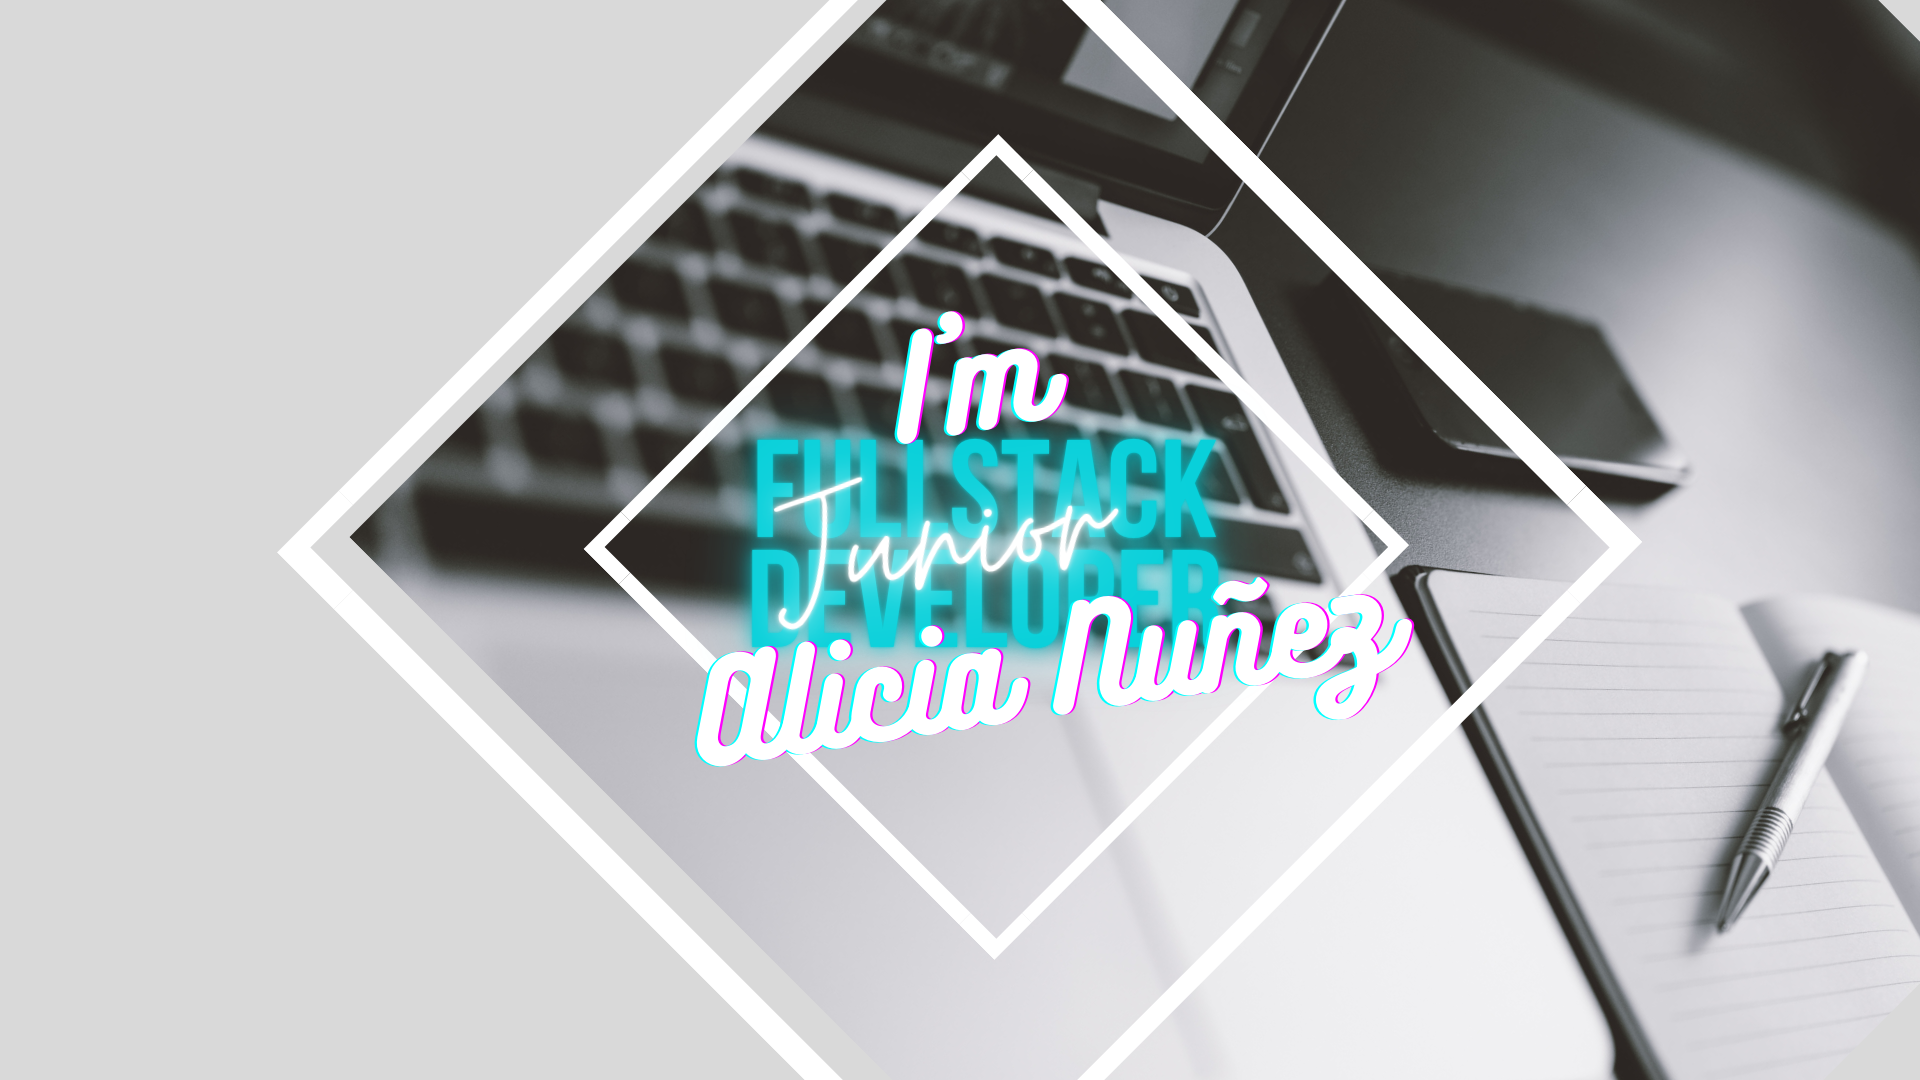
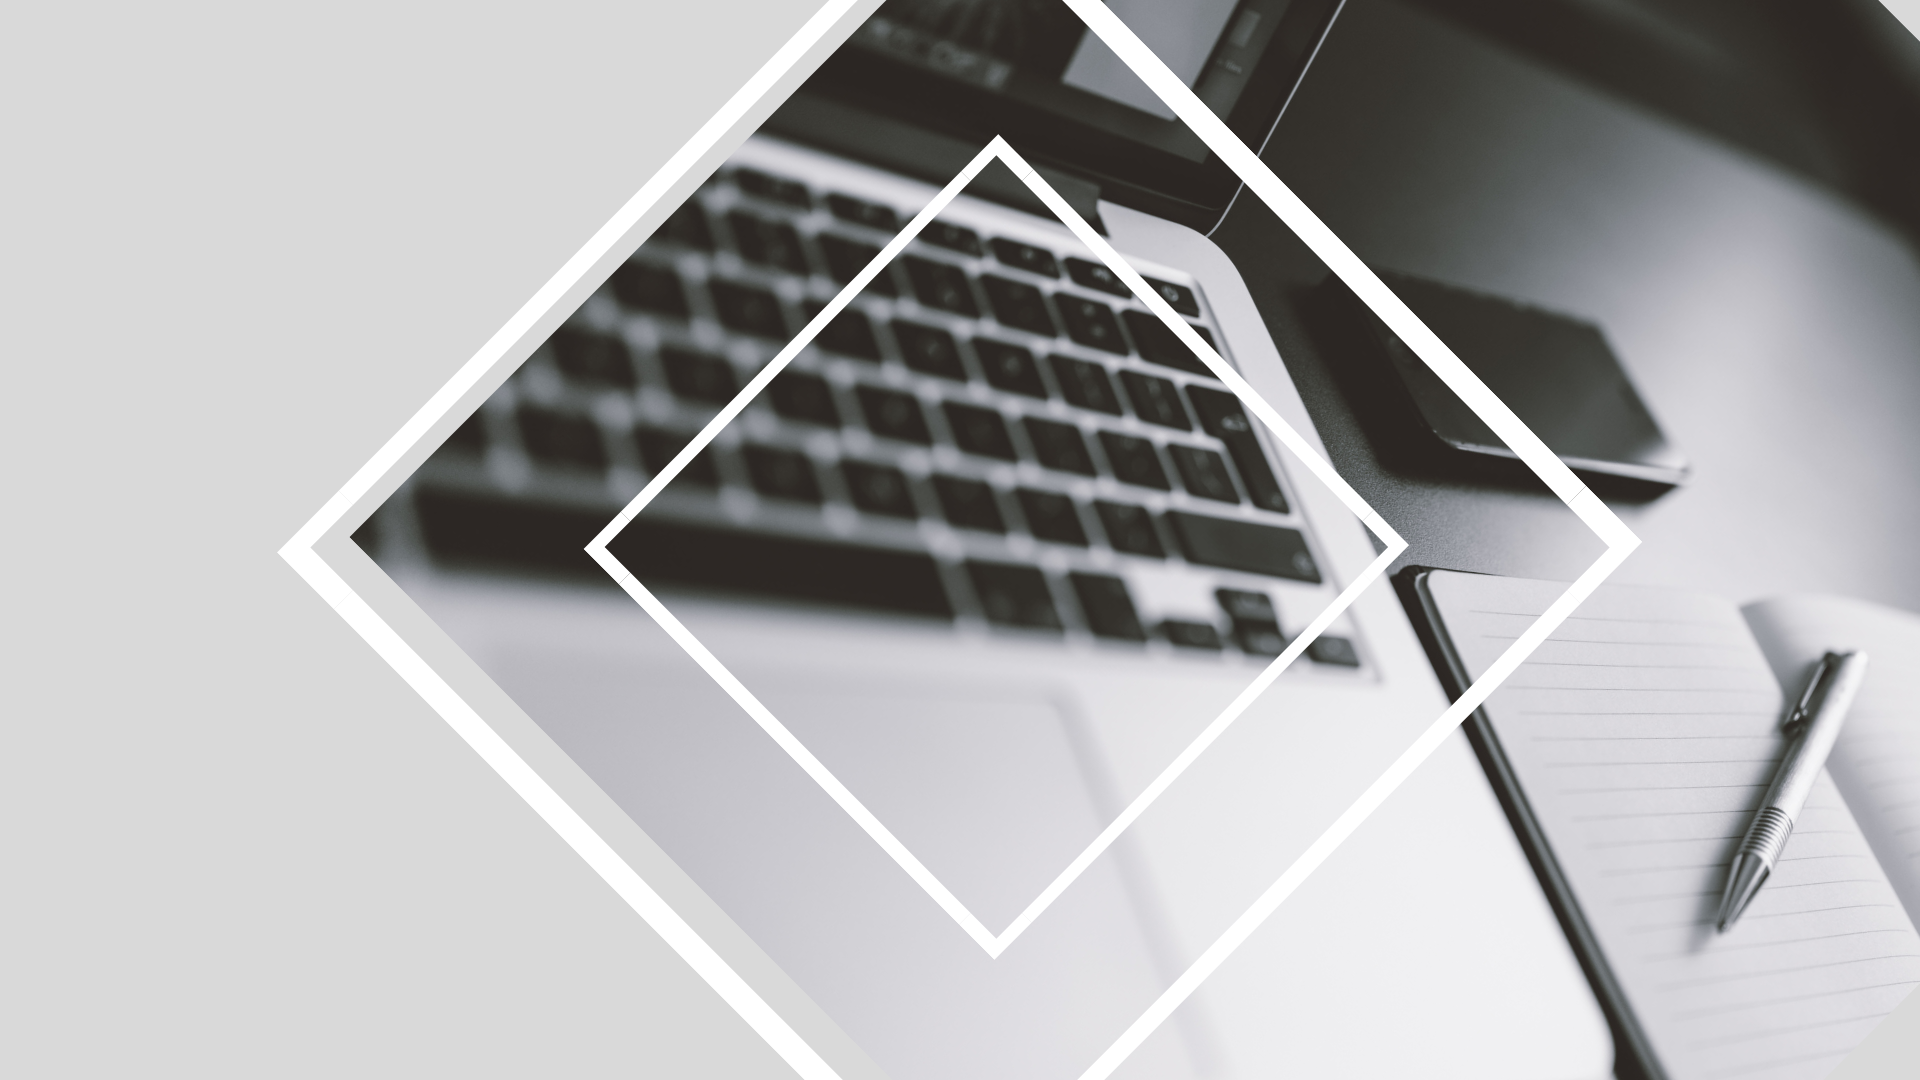
newintro

Changed region(s): [[0.3438, 0.275, 0.75, 0.7028]]

diff --git a/scripts/styles/main.css b/scripts/styles/main.css
@@ -280,13 +280,14 @@ img.resume {
   display: block;
   padding-bottom: 100px;
   color: #00000038;
-  text-shadow: 1px 1px #d6d6d6b6, 2px 2px #e7e7e77a, 3px 3px #a5a49e,
-    4px 4px #a5a49e, 5px 5px #a5a49e, 6px 6px #a5a49e, 7px 7px #a5a49e,
-    8px 8px #a5a49e, 9px 9px #a5a49e, 10px 10px #a5a49e, 11px 11px #a5a49e,
-    12px 12px #a5a49e, 13px 13px #a5a49e, 14px 14px #a5a49e, 15px 15px #a5a49e,
-    16px 16px #a5a49e, 17px 17px #a5a49e, 18px 18px #a5a49e, 19px 19px #a5a49e,
-    20px 20px #a5a49e, 21px 21px #a5a49e, 22px 22px #a5a49e, 23px 23px #a5a49e,
-    24px 24px #a5a49e;
+  text-shadow: 1px 1px #d6d6d663, 2px 2px #e7e7e77a, 3px 3px #c4cccc57,
+    4px 4px #c4cccc57, 5px 5px #c4cccc57, 6px 6px #c4cccc57, 7px 7px #c4cccc57,
+    8px 8px #c4cccc57, 9px 9px #c4cccc57, 10px 10px #c4cccc57,
+    11px 11px #c4cccc57, 12px 12px #c4cccc57, 13px 13px #c4cccc57,
+    14px 14px #c4cccc57, 15px 15px #c4cccc57, 16px 16px #c4cccc57,
+    17px 17px #c4cccc57, 18px 18px #c4cccc57, 19px 19px #c4cccc57,
+    20px 20px #c4cccc57, 21px 21px #c4cccc57, 22px 22px #c4cccc57,
+    23px 23px #c4cccc57, 24px 24px #a5a49e66;
 }
 #intro-area {
   color: #fff;
